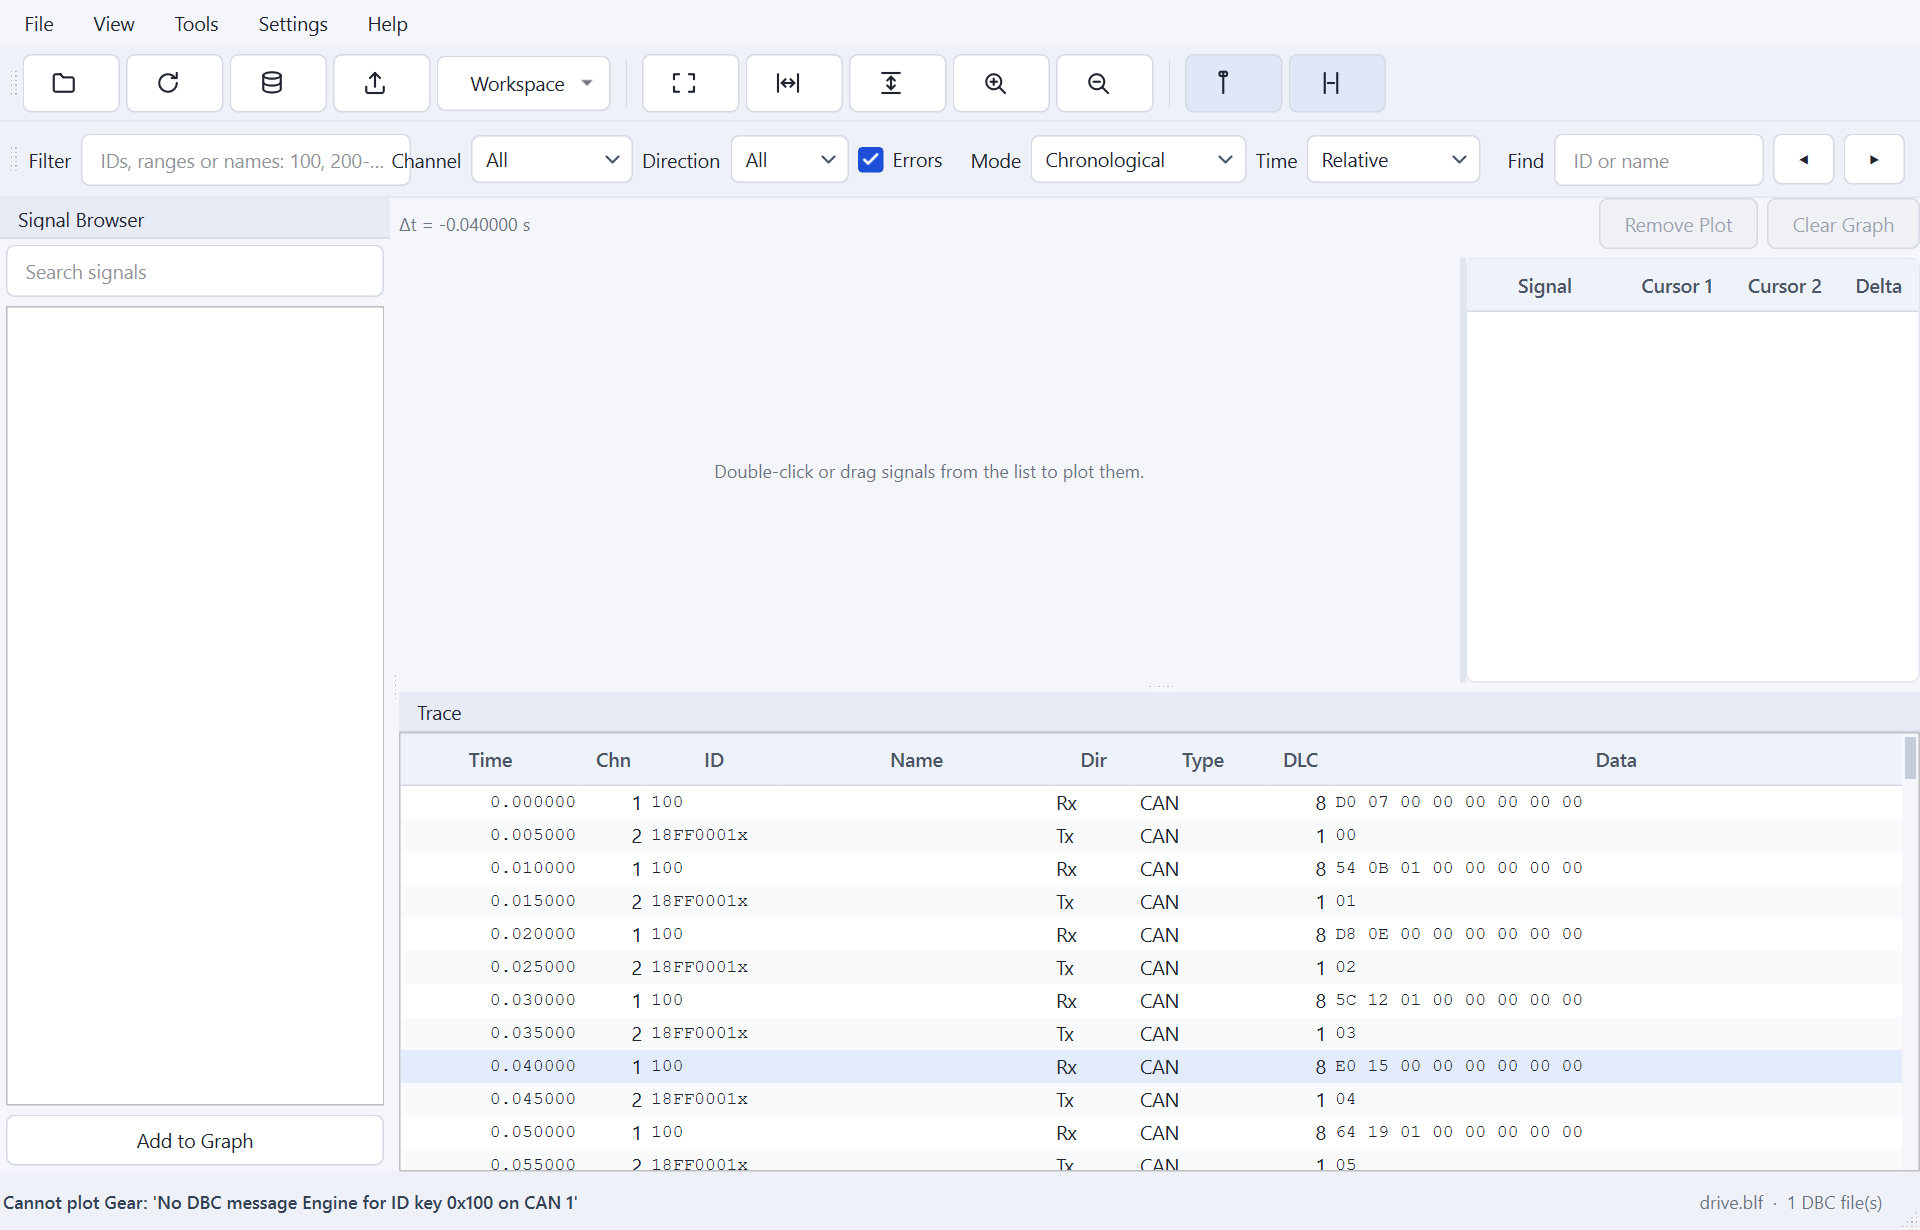
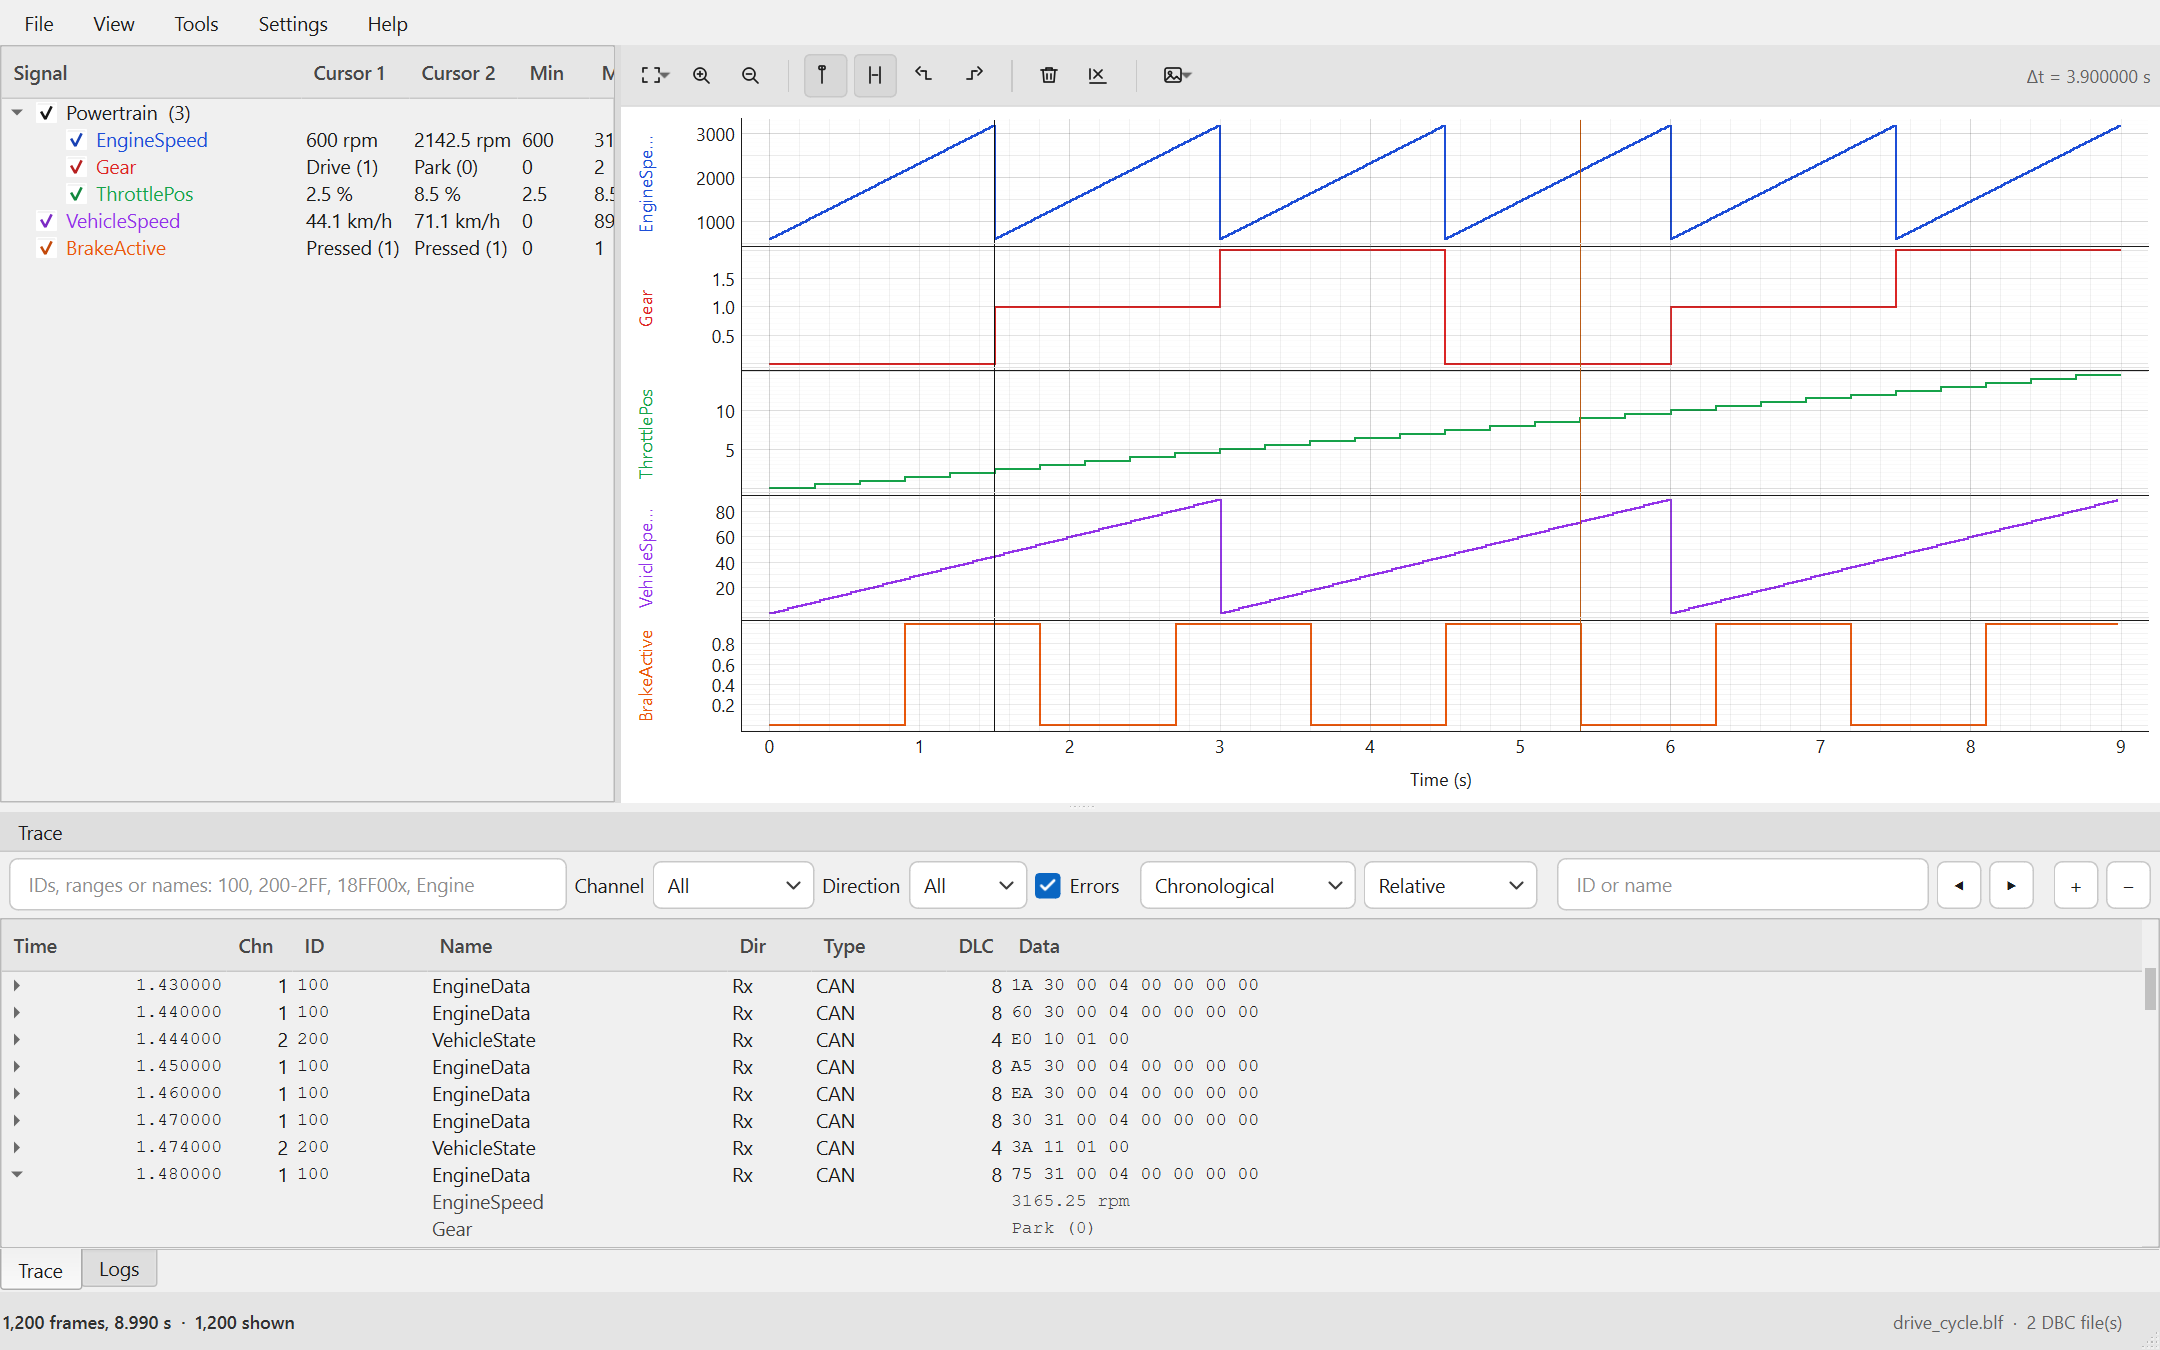
docs: refresh the README for the new log viewer
New screenshots (light and dark) of the window as it is now: the signal list
with groups beside the graph, lanes labelled on their axis, the trace expanded
into its signals, the filter bar in the Trace panel and the Logs tab. The
feature table and the quick start follow.

diff --git a/README.md b/README.md
@@ -13,11 +13,12 @@
 </div>
 
 A Windows desktop app for CAN work. The window **is** a log viewer: BLF, ASC and MF4
-logs as a CANoe-style trace decoded with your DBC files, signals plotted on a shared
-time axis with measurement cursors, and one **Export** window that writes the cut as
-BLF, ASC, MF4, CSV, MAT frames, MAT signals or a Simulink Dataset. **DBC Compare**
-opens from the Tools menu and reports added, removed, modified and renamed messages
-and signals in Excel.
+logs as a CANoe-style trace decoded with your DBC files — expand a frame to read its
+signals — several logs open at once, signals grouped in a list beside the graph and
+plotted on a shared time axis with measurement cursors, and one **Export** window that
+writes the cut as BLF, ASC, MF4, CSV, MAT frames, MAT signals or a Simulink Dataset.
+**DBC Compare** opens from the Tools menu and reports added, removed, modified and
+renamed messages and signals in Excel.
 
 ![Log Viewer](docs/screenshot_logview.png)
 
@@ -25,8 +26,9 @@ and signals in Excel.
 
 | Area | Use it to |
 |---|---|
-| Trace | Open BLF, ASC and MF4 logs, assign DBCs per channel, read decoded signal values, filter by ID, range or name, find, fixed-position mode, per-message cycle statistics |
-| Graphics | Plot signals as sample-and-hold steps, Fit / Fit X / Fit Y, zoom, two cursors with values and Δt, cursor and trace follow each other |
+| Trace | Open BLF, ASC and MF4 logs, assign DBCs per channel, expand a frame into its decoded signals, filter by ID, range or name, find, fixed-position mode, per-message cycle statistics |
+| Logs | Keep several logs open, switch which one the window shows, and export, reload or close any of them from the Logs panel |
+| Graphics | Group the plotted signals, tick what is drawn, read each one at both cursors with Min, Max and Δ, Fit / Fit X / Fit Y, zoom, step to the next value change, save the plots as a PNG |
 | Export | One window: range (whole log, between cursors, trace filter), channel map, time base, and as many output formats as you need from the same cut |
 | DBC Compare | Compare DBC files or whole baselines, pair renamed files and ECU nodes, focus on selected ECUs, review OLD/NEW values in Excel |
 | Everywhere | Light and dark theme (or follow Windows), English or Tiếng Việt, drag & drop, dockable panels, workspaces, settings remembered |
@@ -40,8 +42,8 @@ and signals in Excel.
 ## Quick start
 
 1. Download the Windows `.exe` from [Releases](https://github.com/longvo92/can-toolbox/releases/latest) and open it. No Python installation is needed.
-2. **Open Log…** (or drop a `.blf`, `.asc` or `.mf4` on the window), then **DBC Files…** to assign databases to channels.
-3. Select a frame to see its decoded signals. Open **View → Signal Browser** and double-click a signal to plot it.
+2. **File → Open Log…** (or drop `.blf`, `.asc` or `.mf4` files on the window — several at once is fine), then **File → DBC Files…** to assign databases to channels.
+3. Expand a frame in the trace to read its signals. Open **View → Signal Browser** and double-click a signal to plot it; the list beside the graph holds the plots, in groups if you want them.
 4. **Export…** cuts the log and writes the formats you tick.
 5. **Tools → DBC Compare…** opens the comparison in its own window; **Settings → Settings…** holds language, theme and the MATLAB executable.
 
